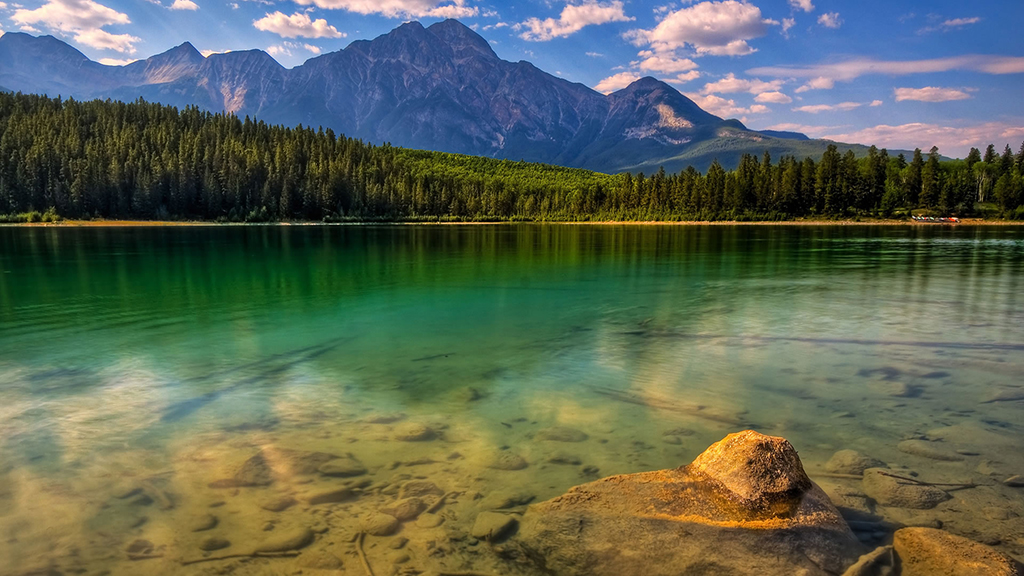
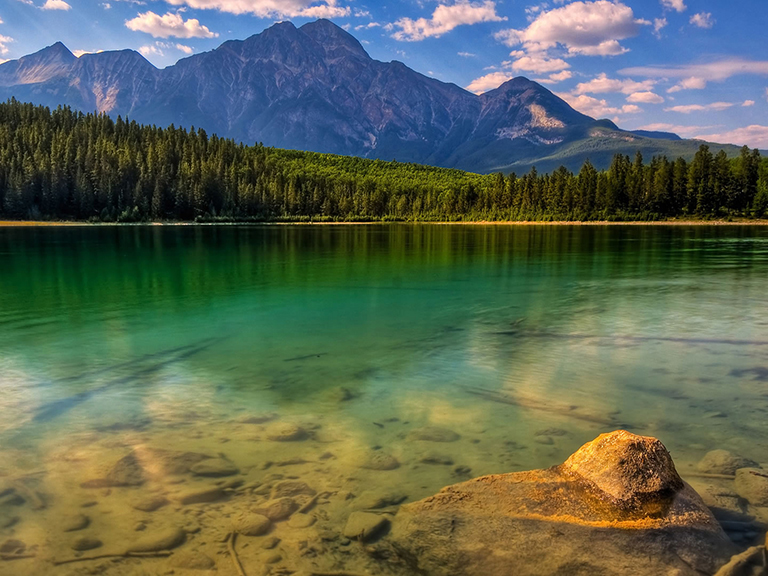
Imágenes secundarias acomodadas con flex.

diff --git a/css/estilos.css b/css/estilos.css
@@ -31,10 +31,23 @@ nav a {
 }
 #central {
   background-color: #82c3a6;
+  padding: 20px 0;
 }
-.secundaria {
+#central picture, #central img{
+  width: 95%;
+  display: block;
+  margin: auto;
+}
+#secundaria {
   background-color: #d5c75f;
-  margin: 0px;
+  display: flex;
+  padding: 20px 0;
+}
+#secundaria picture, #secundaria img{
+  display:flex;
+  width: 80%;
+  height: 80%;
+  margin: auto;
 }
 footer{
   background-color: #c6d5c5;

diff --git a/index.html b/index.html
@@ -25,7 +25,7 @@
         <img src="imagenes/inicio/central/5.jpg" alt="velero">
       </picture>
     </section>
-    <section class="secundaria">
+    <section id="secundaria">
       <picture>
         <source media="(min-width: 1680px)" srcset="imagenes/inicio/secundaria_a/1.jpg" alt="paisaje">
         <source media="(min-width: 1280px)" srcset="imagenes/inicio/secundaria_a/2.jpg" alt="paisaje">
